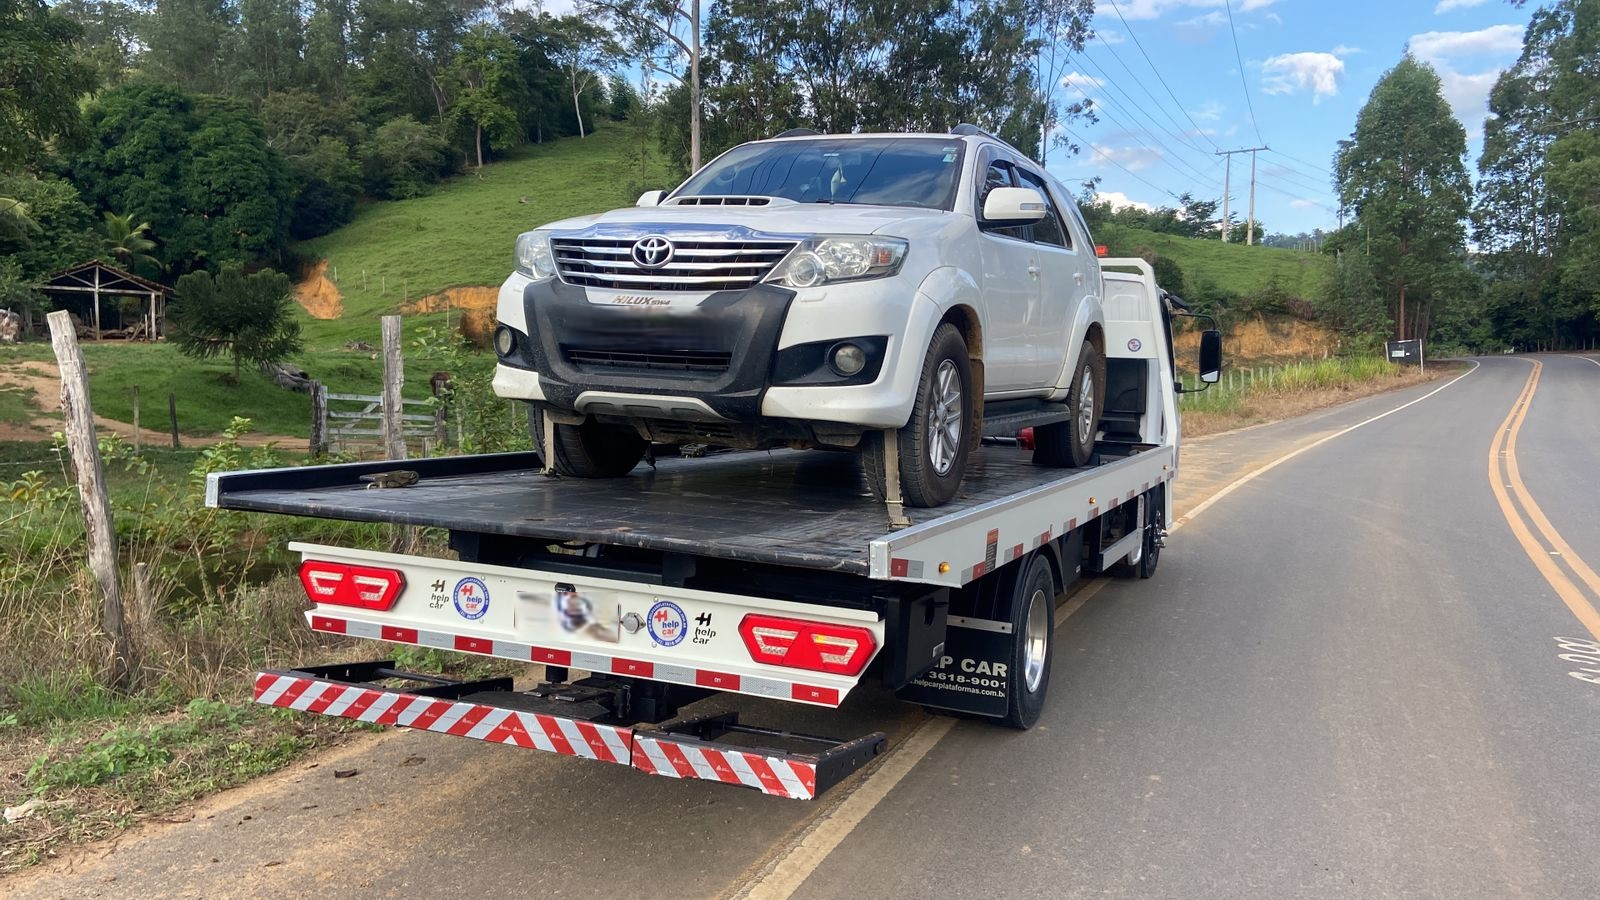
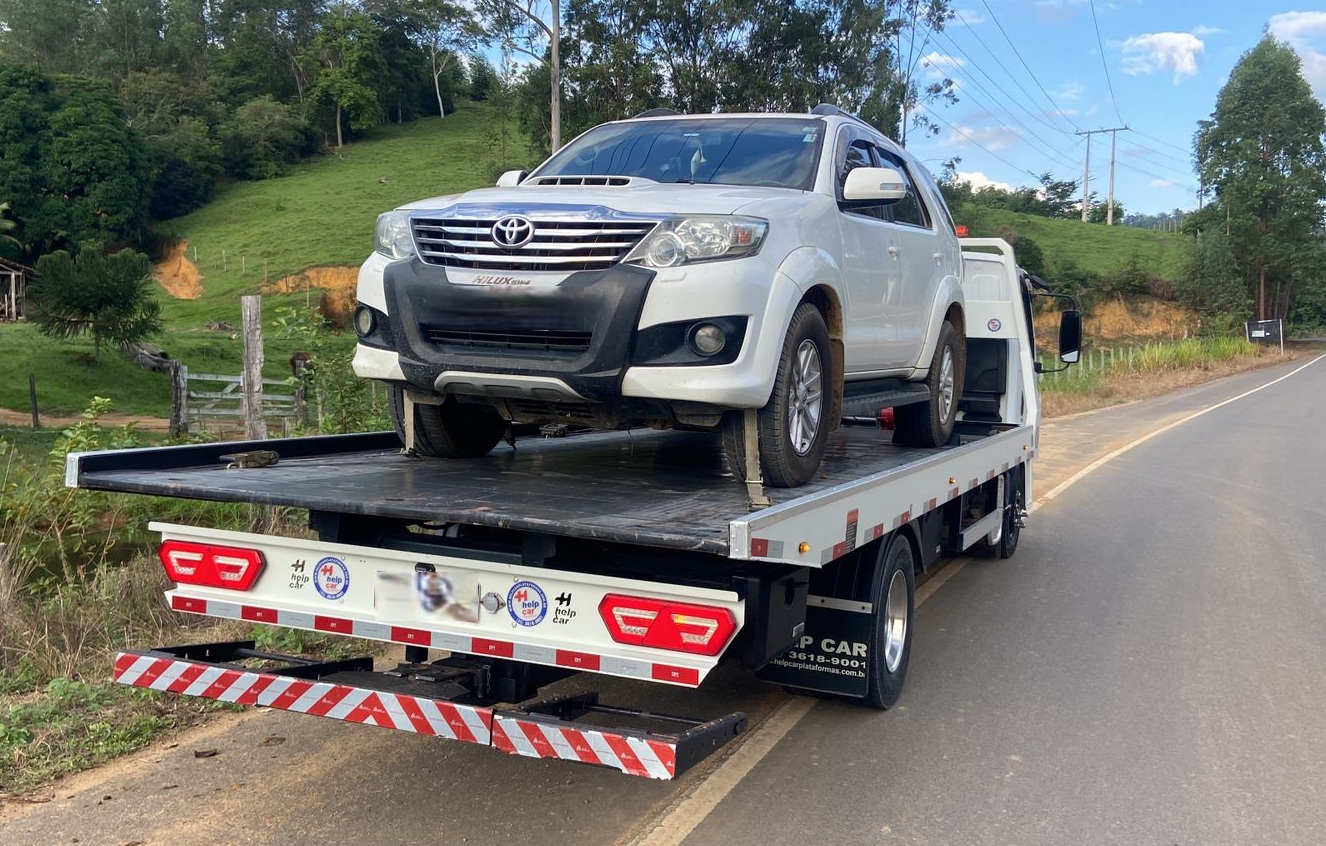
Add files via upload

diff --git a/services.html b/services.html
@@ -51,9 +51,9 @@
         <section class="py-5">
             <div class="container">
                 <!-- Guincho Services -->
-                <div class="service-section mb-5">
+                <div class="service-section mb-5 rounded">
                     <div class="row align-items-center mb-5">
-                        <div class="col-lg-6">
+                        <div class="col-lg-6 p-5">
                             <div class="service-content" data-sr-id="guincho-content">
                                 <h2 class="display-6 fw-bold mb-4">
                                     <i class="fas fa-truck text-primary me-3"></i>
@@ -94,18 +94,17 @@
                             </div>
                         </div>
                         <div class="col-lg-6">
-                            <div class="text-end" data-sr-id="guincho-icon">
-                                <!-- <i class="fas fa-truck display-1 text-primary"></i> -->
-                                 <img class="img-servico" src="img/Foto_carro_sendo_guinchado.jpg" alt="">
+                            <div class="text-end">
+                                <img class="img-fluid" src="img/Foto_carro_sendo_guinchado.jpg" alt="">
                             </div>
                         </div>
                     </div>
                 </div>
 
                 <!-- Transport Services -->
-                <div class="service-section mb-5 bg-body-secondary rounded p-5">
-                    <div class="row align-items-center">
-                        <div class="col-lg-6 order-lg-2">
+                <div class="service-section mb-5 bg-body-secondary rounded">
+                    <div class="row align-items-center mb-5">
+                        <div class="col-lg-6 order-lg-2 p-5">
                             <div class="service-content" data-sr-id="transport-content">
                                 <h2 class="display-6 fw-bold mb-4">
                                     <i class="fas fa-road text-success me-3"></i>
@@ -151,145 +150,14 @@
                             </div>
                         </div>
                         <div class="col-lg-6 order-lg-1">
-                            <div class="text-start" data-sr-id="transport-icon">
-                                <!-- <i class="fas fa-road display-1 text-success"></i> -->
-                                 <img class="img-servico" src="img/transporte_rodoviario.jpg" alt="">
-                            </div>
-                        </div>
-                    </div>
-                </div>
-
-                <!-- Insurance Services -->
-                <!-- <div class="service-section rounded p-5">
-                    <div class="row align-items-center">
-                        <div class="col-lg-6 order-lg-2">
-                            <div class="service-content" data-sr-id="insurance-content">
-                                <h2 class="display-6 fw-bold mb-4">
-                                    <i class="fas fa-file-contract text-warning me-3"></i>
-                                    Atendimento a Seguros
-                                </h2>
-                                <p class="lead text-muted mb-4">
-                                    Credenciados pelas principais seguradoras do mercado, 
-                                    oferecemos atendimento ágil e documentação completa.
-                                </p>
-                                
-                                <div class="insurance-logos mb-4">
-                                    <h6 class="fw-bold mb-3">Seguradoras Credenciadas:</h6>
-                                    <div class="row g-2">
-                                        <div class="col-md-4">
-                                            <div class="insurance-item p-2 border rounded text-center">
-                                                <i class="fas fa-shield-alt text-primary me-2"></i>
-                                                <small>Porto Seguro</small>
-                                            </div>
-                                        </div>
-                                        <div class="col-md-4">
-                                            <div class="insurance-item p-2 border rounded text-center">
-                                                <i class="fas fa-shield-alt text-danger me-2"></i>
-                                                <small>Bradesco Seguros</small>
-                                            </div>
-                                        </div>
-                                        <div class="col-md-4">
-                                            <div class="insurance-item p-2 border rounded text-center">
-                                                <i class="fas fa-shield-alt text-secondary me-2"></i>
-                                                <small>Outras</small>
-                                            </div>
-                                        </div>
-                                    </div>
-                                </div>
-                            </div>
-                        </div>
-                        <div class="col-lg-6 order-lg-1">
-                            <div class="text-center" data-sr-id="insurance-icon">
-                                <i class="fas fa-file-contract display-1 text-warning"></i>
+                            <div class="text-start" >
+                                <img class="img-fluid"  src="img/transporte_rodoviario.jpg" alt="">
                             </div>
                         </div>
                     </div>
                 </div>
             </div>
-        </section> -->
-
-        <!-- Pricing Section -->
-        <!-- <section class="py-5 bg-body-secondary">
-            <div class="container">
-                <div class="row">
-                    <div class="col-lg-8 mx-auto text-center mb-5">
-                        <h2 class="display-6 fw-bold mb-4" data-sr-id="pricing-title">
-                            Tabela de Preços
-                        </h2>
-                        <p class="lead text-muted" data-sr-id="pricing-subtitle">
-                            Preços competitivos e transparentes. Consulte valores específicos para sua região.
-                        </p>
-                    </div>
-                </div>
-                
-                <div class="row justify-content-center g-4">
-                    <div class="col-lg-4 col-md-6">
-                        <div class="card h-100 border-0 shadow-sm" data-sr-id="price-1">
-                            <div class="card-body text-center p-4">
-                                <i class="fas fa-car fs-1 text-primary mb-3"></i>
-                                <h5 class="fw-bold mb-3">Guincho Leve</h5>
-                                <div class="price-display mb-3">
-                                    <span class="h4 fw-bold">A partir de</span>
-                                    <div class="h3 text-primary fw-bold">R$ 80,00</div>
-                                </div>
-                                <ul class="list-unstyled text-muted small">
-                                    <li>Carros de passeio</li>
-                                    <li>Motos e ciclomotores</li>
-                                    <li>Atendimento local</li>
-                                </ul>
-                            </div>
-                        </div>
-                    </div>
-                    
-                    <div class="col-lg-4 col-md-6">
-                        <div class="card h-100 border-0 shadow-sm" data-sr-id="price-2">
-                            <div class="card-body text-center p-4">
-                                <i class="fas fa-truck fs-1 text-success mb-3"></i>
-                                <h5 class="fw-bold mb-3">Guincho Pesado</h5>
-                                <div class="price-display mb-3">
-                                    <span class="h4 fw-bold">A partir de</span>
-                                    <div class="h3 text-success fw-bold">R$ 150,00</div>
-                                </div>
-                                <ul class="list-unstyled text-muted small">
-                                    <li>Veículos comerciais</li>
-                                    <li>Caminhões pequenos</li>
-                                    <li>Situações complexas</li>
-                                </ul>
-                            </div>
-                        </div>
-                    </div>
-                    
-                    <div class="col-lg-4 col-md-6">
-                        <div class="card h-100 border-0 shadow-sm" data-sr-id="price-4">
-                            <div class="card-body text-center p-4">
-                                <i class="fas fa-route fs-1 text-warning mb-3"></i>
-                                <h5 class="fw-bold mb-3">Transporte</h5>
-                                <div class="price-display mb-3">
-                                    <span class="h4 fw-bold">Sob</span>
-                                    <div class="h3 text-warning fw-bold">Consulta</div>
-                                </div>
-                                <ul class="list-unstyled text-muted small">
-                                    <li>Transporte interestadual</li>
-                                    <li>Múltiplos veículos</li>
-                                    <li>Distâncias longas</li>
-                                </ul>
-                            </div>
-                        </div>
-                    </div>
-                </div>
-                
-                <div class="text-center mt-5">
-                    <p class="text-muted mb-3">
-                        <i class="fas fa-info-circle me-2"></i>
-                        Preços podem variar conforme distância, horário e complexidade do serviço.
-                    </p>
-                    <a href="./contact.html" class="btn btn-primary btn-lg" data-sr-id="pricing-cta">
-                        <i class="fas fa-calculator me-2"></i>Solicitar Orçamento Personalizado
-                    </a>
-                </div>
-            </div>
-        </section> -->
-
+        </section>
 
         <!-- Service Areas -->
         <section class="py-5">

diff --git a/index.html b/index.html
@@ -60,7 +60,7 @@
                     <div class="col-lg-6">
                         <div class="hero-image text-center" data-sr-id="hero-image">
                             <!-- <i class="fas fa-truck hero-icon text-primary"></i> -->
-                             <img src="img/foto01.png" alt="Guincho">
+                             <img class="img-fluid img-index" src="img/img-principal.png" alt="Guincho">
                         </div>
                     </div>
                 </div>
@@ -105,8 +105,7 @@
                                 </div>
                                 <h5 class="fw-bold mb-3">Rapidez</h5>
                                 <p class="text-muted">
-                                    Tempo médio de chegada de 30 minutos. 
-                                    Frota estrategicamente posicionada.
+                                    Prontos para atender com agilidade e eficiência sempre que você precisar.
                                 </p>
                             </div>
                         </div>

diff --git a/about.html b/about.html
@@ -59,7 +59,7 @@
                                 a JLS busca se consolidar como referência no mercado.
                             </p>
                             <p class="mb-4">
-                                Iniciamos nossas atividades focados em atender as necessidades de clientes particulares, empresariais e seguradores, 
+                                Iniciamos nossas atividades focados em atender as necessidades de clientes particulares, empresariais e seguradoras, 
                                 sempre priorizando a segurança, agilidade e confiabilidade em todos os nossos serviços.
                             </p>
                         </div>

diff --git a/contact.html b/contact.html
@@ -105,13 +105,14 @@
                         </div>
                     </div>
                 </div>
+                <span id="contact"></span>
             </div>
         </section>
 
         <!-- Contact Form Section -->
-        <section class="py-5 bg-body-secondary">
+        <section class="py-5 bg-body-secondary" >
             <div class="container">
-                <div class="row" id="contact" >
+                <div class="row">
                     <div class="col-lg-8 mx-auto">
                         <div class="card border-0 shadow-lg">
                             <div class="card-body p-5">

diff --git a/src/header.html b/src/header.html
@@ -1,9 +1,9 @@
 <!-- Navigation -->
 <nav class="navbar navbar-expand-lg navbar-dark bg-dark fixed-top">
     <div class="container">
-        <a class="navbar-brand fw-bold" href="./index.html" style="width: auto; height: 60px;">
+        <a class="navbar-brand fw-bold" href="./index.html">
             <!-- JLS Transporte e Guincho -->
-            <img src="../img/logo-jls.png" alt="" height="60px" class="text-white">
+            <img src="../img/logo-teste.png" alt="">
         </a>
         
         <button class="navbar-toggler" type="button" data-bs-toggle="collapse" data-bs-target="#navbarNav">

diff --git a/static/css/style.css b/static/css/style.css
@@ -273,6 +273,7 @@
     .hours-card {
         margin-bottom: 1rem;
     }
+
 }
 
 /* Animation Classes */
@@ -405,9 +406,12 @@
     width: auto;
 }
 
-.gradient-overlay {
-  background-image: linear-gradient(to bottom, rgba(0, 0, 0, 0.6), transparent), url('imag/foto01.png');
-  background-size: cover;
-  background-position: center;
-  background-repeat: no-repeat;
+#header{
+    height: 80px;
+    width: 100%;
+}
+
+.img-index{
+    width: auto;
+    height: 30rem;
 }
